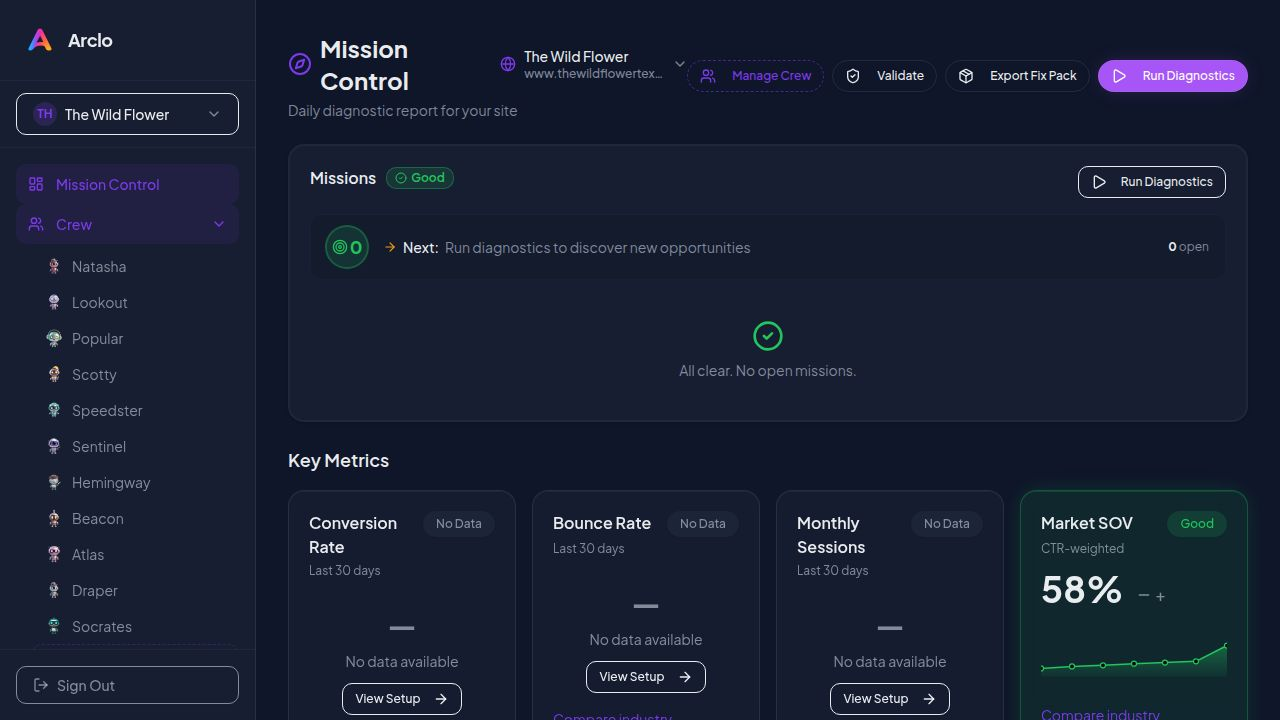
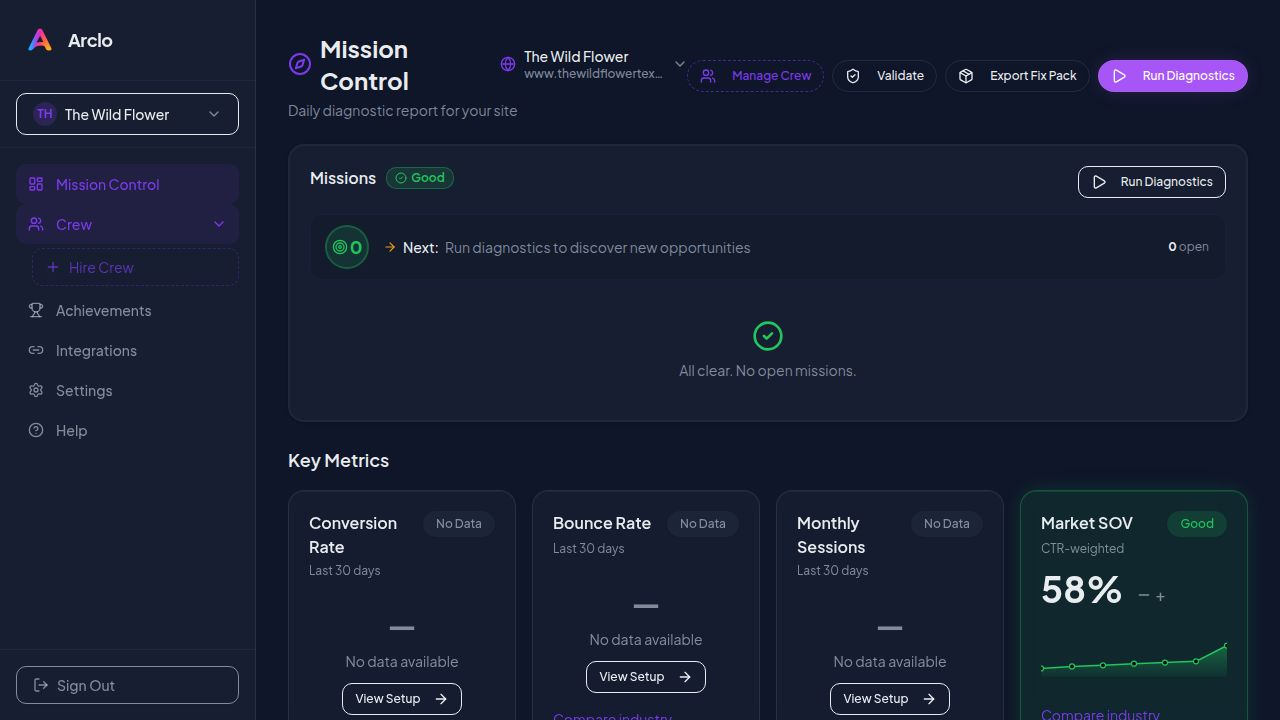
Display only hired crews in the navigation sidebar
Refactor the DashboardLayout to use the useHiredCrews hook, ensuring only enabled agents are displayed in the navigation sidebar and updating the "Hire Crew" link behavior.

Replit-Commit-Author: Agent
Replit-Commit-Session-Id: 3e32dd0f-98d1-4403-bf63-9d03e85c6567
Replit-Commit-Checkpoint-Type: intermediate_checkpoint
Replit-Commit-Event-Id: 7223d2e9-60ba-4cd1-8182-09ff6ec0ff89
Replit-Commit-Screenshot-Url: https://storage.googleapis.com/screenshot-production-us-central1/b4e16f48-8d48-42ea-921a-7d6fa71e03be/3e32dd0f-98d1-4403-bf63-9d03e85c6567/4js2UGR
Replit-Helium-Checkpoint-Created: true

diff --git a/client/src/components/layout/DashboardLayout.tsx b/client/src/components/layout/DashboardLayout.tsx
@@ -40,6 +40,7 @@ import {
 import { Input } from "@/components/ui/input";
 import { Label } from "@/components/ui/label";
 import { useSiteContext } from "@/hooks/useSiteContext";
+import { useHiredCrews } from "@/hooks/useHiredCrews";
 import { useMutation, useQueryClient } from "@tanstack/react-query";
 import { toast } from "sonner";
 import logoImage from "@assets/image_1766866825580.png";
@@ -57,6 +58,7 @@ export function DashboardLayout({ children }: DashboardLayoutProps) {
   const [newSiteUrl, setNewSiteUrl] = useState("");
   
   const { sites, selectedSite, setSelectedSiteId, currentSite } = useSiteContext();
+  const { hiredCrewIds, isLoading: crewLoading } = useHiredCrews();
   const queryClient = useQueryClient();
 
   const addSiteMutation = useMutation({
@@ -104,7 +106,8 @@ export function DashboardLayout({ children }: DashboardLayoutProps) {
     { href: ROUTES.HELP, label: "Help", icon: HelpCircle },
   ];
   
-  const crewMembers = USER_FACING_AGENTS.map(id => AGENTS[id]).filter(Boolean);
+  const allCrewMembers = USER_FACING_AGENTS.map(id => AGENTS[id]).filter(Boolean);
+  const hiredCrewMembers = allCrewMembers.filter(member => hiredCrewIds.includes(member.service_id));
 
   const activeSite = currentSite || selectedSite;
   const siteInitials = activeSite?.displayName?.slice(0, 2).toUpperCase() || "??";
@@ -244,7 +247,7 @@ export function DashboardLayout({ children }: DashboardLayoutProps) {
               </div>
             </CollapsibleTrigger>
             <CollapsibleContent className="pl-4 mt-1 space-y-0.5">
-              {crewMembers.map((member) => {
+              {hiredCrewMembers.map((member) => {
                 const agentRoute = buildRoute.agent(member.service_id);
                 const isActive = location === agentRoute;
                 return (
@@ -274,7 +277,7 @@ export function DashboardLayout({ children }: DashboardLayoutProps) {
                 );
               })}
               
-              {/* Add more crew link */}
+              {/* Hire Crew link */}
               <Link href={ROUTES.CREW}>
                 <div 
                   className={cn(
@@ -283,10 +286,10 @@ export function DashboardLayout({ children }: DashboardLayoutProps) {
                       ? "bg-primary/10 text-primary border-primary" 
                       : "text-primary/70 hover:text-primary"
                   )}
-                  data-testid="link-nav-add-more-crew"
+                  data-testid="link-nav-hire-crew"
                 >
                   <Plus className="w-4 h-4" />
-                  <span className="truncate">Hire more crew</span>
+                  <span className="truncate">{hiredCrewMembers.length > 0 ? "Hire more crew" : "Hire Crew"}</span>
                 </div>
               </Link>
             </CollapsibleContent>

diff --git a/client/src/hooks/useHiredCrews.ts b/client/src/hooks/useHiredCrews.ts
@@ -1,0 +1,62 @@
+import { useQuery } from "@tanstack/react-query";
+import { useSiteContext } from "./useSiteContext";
+
+interface CrewStateResponse {
+  siteId: string;
+  enabledAgents: string[];
+  agentStatus: Record<string, { health: string; needsConfig: boolean; lastRun: string | null }>;
+  totalEnabled: number;
+}
+
+interface UseHiredCrewsReturn {
+  hiredCrewIds: string[];
+  agentStatus: Record<string, { health: string; needsConfig: boolean; lastRun: string | null }>;
+  totalEnabled: number;
+  isLoading: boolean;
+  error: Error | null;
+  isHired: (crewId: string) => boolean;
+  getCrewStatus: (crewId: string) => { health: string; needsConfig: boolean; lastRun: string | null } | null;
+}
+
+export function useHiredCrews(): UseHiredCrewsReturn {
+  const { selectedSiteId } = useSiteContext();
+
+  const { data, isLoading, error } = useQuery<CrewStateResponse>({
+    queryKey: ["crew-state", selectedSiteId],
+    queryFn: async () => {
+      if (!selectedSiteId) {
+        return { siteId: "", enabledAgents: [], agentStatus: {}, totalEnabled: 0 };
+      }
+      const res = await fetch(`/api/crew/state?siteId=${encodeURIComponent(selectedSiteId)}`);
+      if (!res.ok) {
+        throw new Error("Failed to fetch crew state");
+      }
+      return res.json();
+    },
+    enabled: !!selectedSiteId,
+    staleTime: 30 * 1000,
+    gcTime: 5 * 60 * 1000,
+  });
+
+  const hiredCrewIds = data?.enabledAgents ?? [];
+  const agentStatus = data?.agentStatus ?? {};
+  const totalEnabled = data?.totalEnabled ?? 0;
+
+  const isHired = (crewId: string): boolean => {
+    return hiredCrewIds.includes(crewId);
+  };
+
+  const getCrewStatus = (crewId: string) => {
+    return agentStatus[crewId] ?? null;
+  };
+
+  return {
+    hiredCrewIds,
+    agentStatus,
+    totalEnabled,
+    isLoading,
+    error: error as Error | null,
+    isHired,
+    getCrewStatus,
+  };
+}
